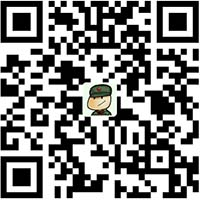
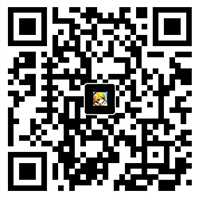
Site updated: 2017-12-17 19:09:13

diff --git a/2017/12/17/first/index.html b/2017/12/17/first/index.html
@@ -15,7 +15,7 @@
 <meta property="og:url" content="http://www.dubalong.top/2017/12/17/first/index.html">
 <meta property="og:site_name" content="Hexo">
 <meta property="og:description" content="操场上还能看见飞奔着向教室方向跑的学生，期待着能在上课铃声的最后一秒之前赶到教室，不然，他们面对的也许是老师严厉的指责和同学们幸灾乐祸的目光。">
-<meta property="og:updated_time" content="2017-12-17T10:54:59.814Z">
+<meta property="og:updated_time" content="2017-12-17T11:08:58.872Z">
 <meta name="twitter:card" content="summary">
 <meta name="twitter:title" content="第四章 祸起食堂">
 <meta name="twitter:description" content="操场上还能看见飞奔着向教室方向跑的学生，期待着能在上课铃声的最后一秒之前赶到教室，不然，他们面对的也许是老师严厉的指责和同学们幸灾乐祸的目光。">
@@ -172,7 +172,7 @@
 
             <div class="post-copyright">
     <div class="content">
-        <p>最后更新： 2017年12月17日 18:54</p>
+        <p>最后更新： 2017年12月17日 19:08</p>
         <p>原始链接： <a class="post-url" href="/2017/12/17/first/" title="第四章 祸起食堂">http://www.dubalong.top/2017/12/17/first/</a></p>
         <footer>
             <a href="http://www.dubalong.top">
@@ -230,7 +230,7 @@
     <div class="post-share-list" id="share-list">
         <ul class="share-icons">
           <li>
-            <a class="weibo share-sns" target="_blank" href="http://service.weibo.com/share/share.php?url=http://www.dubalong.top/2017/12/17/first/&title=《第四章 祸起食堂》 — Hexo&pic=http://www.dubalong.top/images/logo.png" data-title="微博">
+            <a class="weibo share-sns" target="_blank" href="http://service.weibo.com/share/share.php?url=http://www.dubalong.top/2017/12/17/first/&title=《第四章 祸起食堂》 — Hexo&pic=http://www.dubalong.top/images/66.jpg" data-title="微博">
               <i class="fa fa-weibo"></i>
             </a>
           </li>

diff --git a/index.html b/index.html
@@ -180,7 +180,7 @@
         <div class="article-img">
             <a href="/2017/12/17/first/" >
                 
-                <img src="http://www.dubalong.top/images/logo.png" alt="第四章 祸起食堂" title="第四章 祸起食堂">
+                <img src="http://www.dubalong.top/images/66.jpg" alt="第四章 祸起食堂" title="第四章 祸起食堂">
                 
             </a>
         </div>

diff --git a/categories/第一梦/index.html b/categories/第一梦/index.html
@@ -3,7 +3,7 @@
 <head>
   <meta charset="utf-8">
   
-  <title>Category: 第一梦 | Hexo</title>
+  <title>Catégorie: 第一梦 | Hexo</title>
   <meta name="viewport" content="width=device-width, initial-scale=1, maximum-scale=1">
   
     <meta name="keywords" content="Jxion,Jxion's Blog" />

diff --git a/tags/第一梦/index.html b/tags/第一梦/index.html
@@ -3,7 +3,7 @@
 <head>
   <meta charset="utf-8">
   
-  <title>Tag: 第一梦 | Hexo</title>
+  <title>Mot-clé: 第一梦 | Hexo</title>
   <meta name="viewport" content="width=device-width, initial-scale=1, maximum-scale=1">
   
     <meta name="keywords" content="Jxion,Jxion's Blog" />

diff --git a/tags/原创/index.html b/tags/原创/index.html
@@ -3,7 +3,7 @@
 <head>
   <meta charset="utf-8">
   
-  <title>Tag: 原创 | Hexo</title>
+  <title>Mot-clé: 原创 | Hexo</title>
   <meta name="viewport" content="width=device-width, initial-scale=1, maximum-scale=1">
   
     <meta name="keywords" content="Jxion,Jxion's Blog" />
